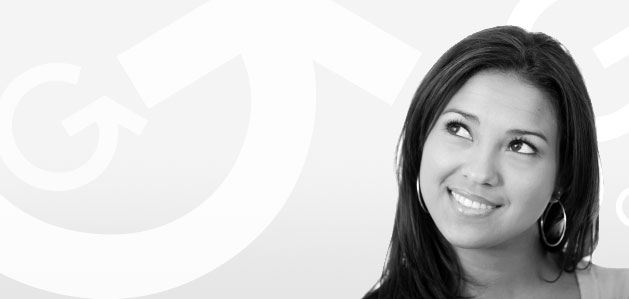
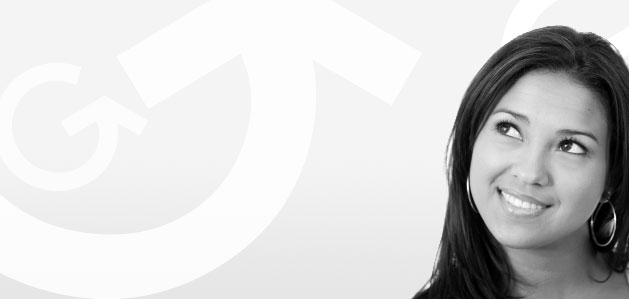
more front page updates

Changed region(s): [[0.5739, 0.0602, 1.0, 1.0]]

diff --git a/media/styles/style.css b/media/styles/style.css
@@ -386,6 +386,8 @@ a#option4:hover { height:74px; width:320px; background-image:url('http://assets.
 #front_carousel_pledge_6 { padding:20px 20px 10px 20px; background-image:url(http://assets.publicequalsonline.com/media/images/feature_bg_pledge6.jpg); width:629px; height:299px;}
 #front_carousel_pledge_7 { padding:20px 20px 10px 20px; background-image:url(http://assets.publicequalsonline.com/media/images/feature_bg_pledge7.jpg); width:629px; height:299px;}
 #front_carousel_pledge_8 { padding:20px 20px 10px 20px; background-image:url(http://assets.publicequalsonline.com/media/images/feature_bg_pledge8.jpg); width:629px; height:299px;}
+#front_carousel_pledge_9 { padding:20px 20px 10px 20px; background-image:url(http://assets.publicequalsonline.com/media/images/feature_bg_pledge9.jpg); width:629px; height:299px;}
+
 
 
 

diff --git a/templates/index.html b/templates/index.html
@@ -41,7 +41,7 @@
 	<!--uncomment this if there is a feature (see above)-->
 	<div id="feature-1" class="ui-tabs-panel ui-tabs-hide">
 		
-		<div id="front_carousel_pledge_{{ 1234678|make_list|random }}">
+		<div id="front_carousel_pledge_{{ 12346789|make_list|random }}">
 		<div id="front_pledge">&#8220;Government transparency is critical to creating a better democracy, and of highest importance in how I cast my vote. I pledge, through my sustained engagement, to hold public officials accountable for being open and transparent.&#8221;
 		</div>
 		
